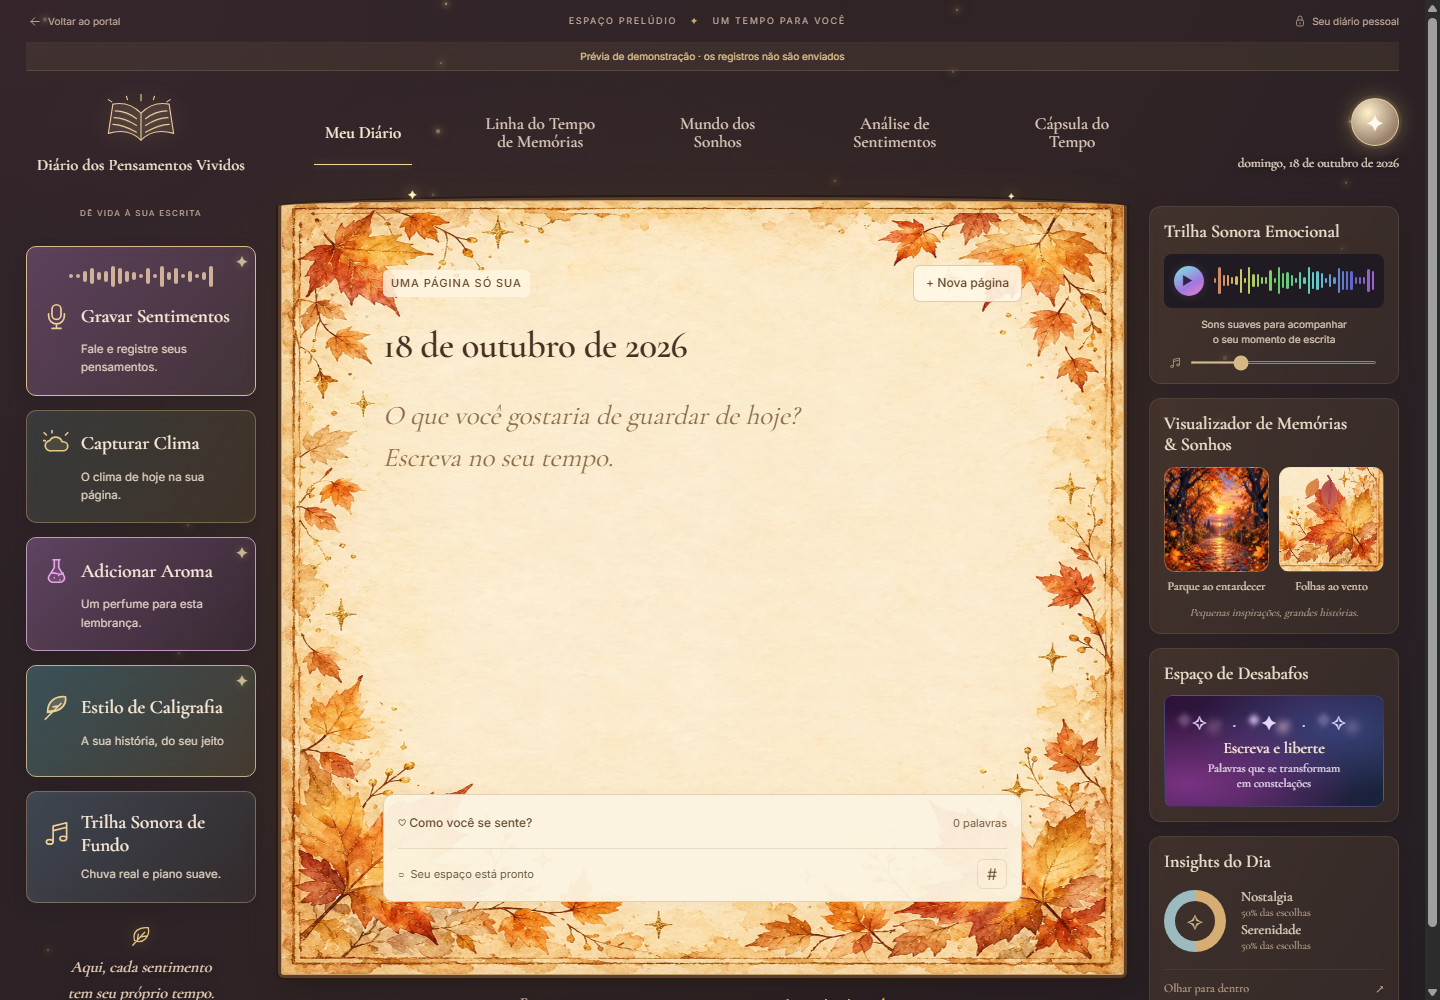
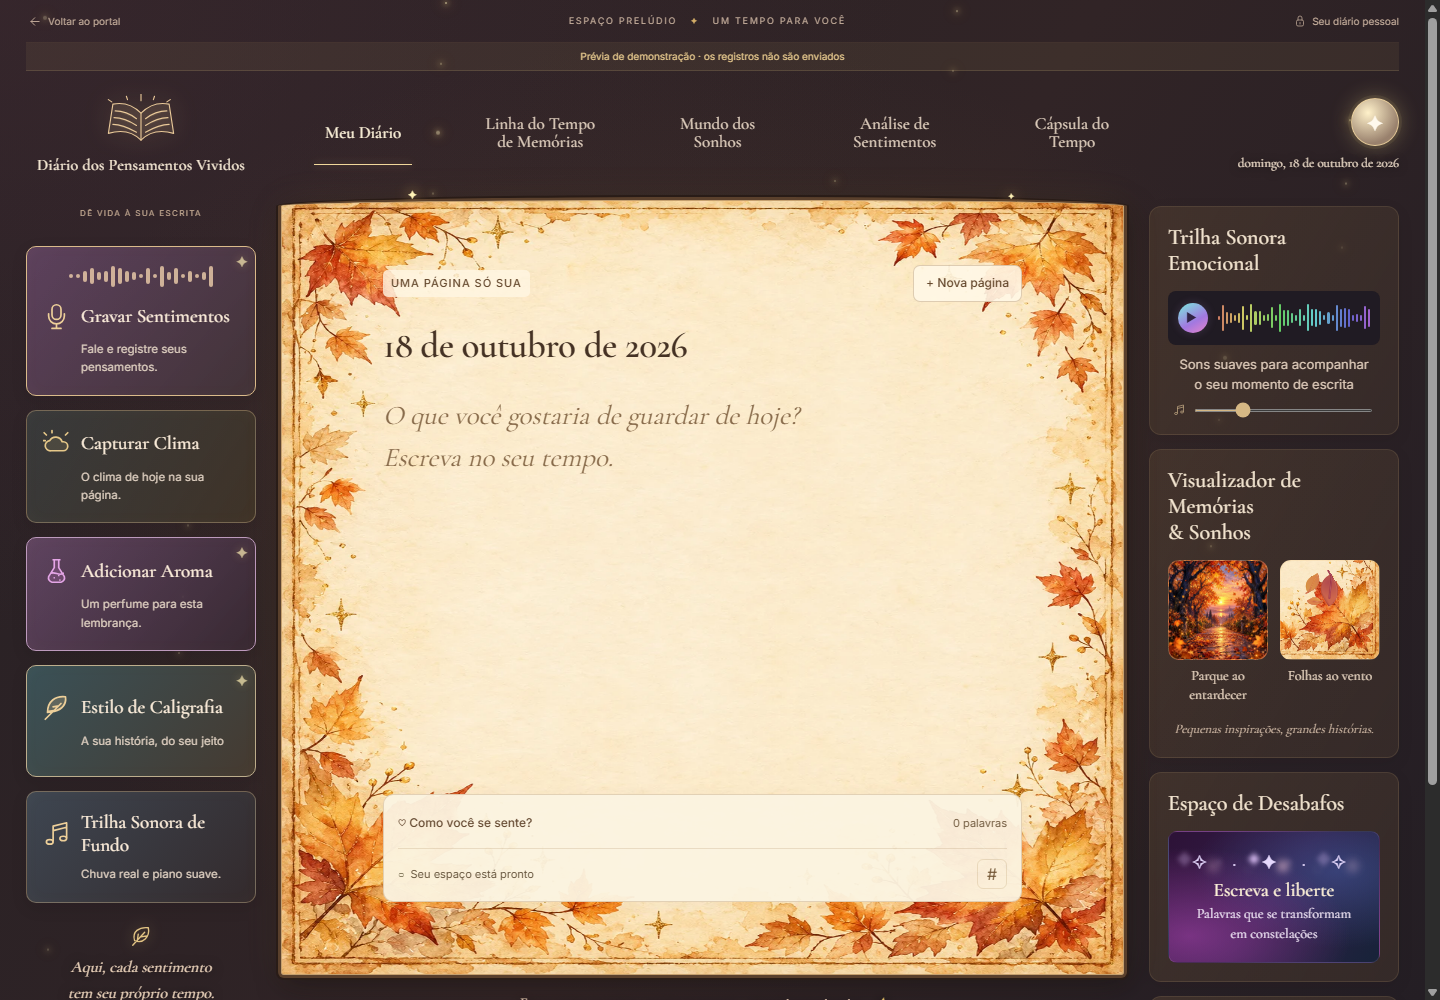
feat(diario): textos dos painéis laterais maiores e legíveis
Conclui o ajuste iniciado pelo Codex ("melhore o tamanho dos textos"):
títulos dos painéis 18 → 22 px, descrições 10 → 13 px, legendas das
memórias 12 → 14 px, frase em itálico, botão de desabafos e insights
maiores, com versões para telas médias e celular.

Correções sobre a ampliação:
- frase em itálico (.panel-whisper) ficava presa em 13 px no celular pela
  regra genérica dos parágrafos; agora usa o tamanho pretendido (14 px);
- cartões de memórias alinhados pelo topo (legenda de duas linhas
  deslocava a imagem do cartão vizinho);
- abaixo de 390 px os painéis passam a uma coluna: em 320–375 px as duas
  colunas quebravam "entardecer" e "Serenidade" no meio e escondiam a onda
  sonora. Sem rolagem horizontal de 320 a 1440 px.

Changed region(s): [[0.7812, 0.217, 1.0, 0.992]]

diff --git a/app/diary.css b/app/diary.css
@@ -360,3 +360,84 @@
   .diary-brand { gap: 7px; }
   .diary-brand > svg { margin-bottom: 0; }
 }
+
+/* Painéis laterais: leitura confortável em telas grandes e pequenas. */
+.diary-panels .side-panel {
+  min-width: 0;
+  padding: 18px;
+}
+.diary-panels .side-panel h2 {
+  margin-bottom: 14px;
+  font-size: 22px;
+  line-height: 1.18;
+  overflow-wrap: anywhere;
+}
+.diary-panels .side-panel p {
+  font-size: 13px;
+  line-height: 1.55;
+}
+.memory-tiles {
+  min-width: 0;
+  gap: 12px;
+  /* Legendas de alturas diferentes: sem isso o botão mais baixo centraliza a imagem. */
+  align-items: start;
+}
+.memory-tiles button {
+  min-width: 0;
+  font-size: 14px;
+  line-height: 1.35;
+  overflow-wrap: anywhere;
+}
+.diary-panels .side-panel .panel-whisper {
+  margin-top: 15px;
+  font-size: 13px;
+  line-height: 1.45;
+  color: #d4bda9;
+}
+.release-button {
+  padding: 19px 10px;
+}
+.release-button strong {
+  font-size: 19px;
+  line-height: 1.25;
+}
+.release-button > span:last-child {
+  font-size: 14px;
+  line-height: 1.4;
+}
+#insightLegend p {
+  font-size: 16px;
+  line-height: 1.3;
+  overflow-wrap: anywhere;
+}
+#insightLegend small {
+  margin-top: 3px;
+  font-size: 13px;
+  line-height: 1.5;
+}
+.insight-link {
+  font-size: 14px;
+}
+@media (max-width: 1200px) and (min-width: 981px) {
+  .diary-panels .side-panel { padding: 15px; }
+  .diary-panels .side-panel h2 { font-size: 19px; }
+  .diary-panels .side-panel p { font-size: 12px; }
+  .memory-tiles button { font-size: 13px; }
+  .diary-panels .side-panel .panel-whisper { font-size: 12px; }
+}
+@media (max-width: 640px) {
+  .diary-panels .side-panel { padding: 18px; }
+  .diary-panels .side-panel h2 { font-size: 22px; }
+  .diary-panels .side-panel p { font-size: 13px; }
+  .memory-tiles button { font-size: 15px; }
+  .diary-panels .side-panel .panel-whisper { font-size: 14px; }
+  .release-button strong { font-size: 20px; }
+  .release-button > span:last-child { font-size: 15px; }
+  #insightLegend p { font-size: 17px; }
+  #insightLegend small { font-size: 14px; }
+}
+/* Abaixo de 390 px as duas colunas ficam estreitas demais para essas fontes
+   ("entardecer" e "Serenidade" quebravam no meio da palavra): uma coluna só. */
+@media (max-width: 389px) {
+  .diary-panels { grid-template-columns: minmax(0, 1fr); }
+}

diff --git a/staging/app/diary.css b/staging/app/diary.css
@@ -360,3 +360,84 @@
   .diary-brand { gap: 7px; }
   .diary-brand > svg { margin-bottom: 0; }
 }
+
+/* Painéis laterais: leitura confortável em telas grandes e pequenas. */
+.diary-panels .side-panel {
+  min-width: 0;
+  padding: 18px;
+}
+.diary-panels .side-panel h2 {
+  margin-bottom: 14px;
+  font-size: 22px;
+  line-height: 1.18;
+  overflow-wrap: anywhere;
+}
+.diary-panels .side-panel p {
+  font-size: 13px;
+  line-height: 1.55;
+}
+.memory-tiles {
+  min-width: 0;
+  gap: 12px;
+  /* Legendas de alturas diferentes: sem isso o botão mais baixo centraliza a imagem. */
+  align-items: start;
+}
+.memory-tiles button {
+  min-width: 0;
+  font-size: 14px;
+  line-height: 1.35;
+  overflow-wrap: anywhere;
+}
+.diary-panels .side-panel .panel-whisper {
+  margin-top: 15px;
+  font-size: 13px;
+  line-height: 1.45;
+  color: #d4bda9;
+}
+.release-button {
+  padding: 19px 10px;
+}
+.release-button strong {
+  font-size: 19px;
+  line-height: 1.25;
+}
+.release-button > span:last-child {
+  font-size: 14px;
+  line-height: 1.4;
+}
+#insightLegend p {
+  font-size: 16px;
+  line-height: 1.3;
+  overflow-wrap: anywhere;
+}
+#insightLegend small {
+  margin-top: 3px;
+  font-size: 13px;
+  line-height: 1.5;
+}
+.insight-link {
+  font-size: 14px;
+}
+@media (max-width: 1200px) and (min-width: 981px) {
+  .diary-panels .side-panel { padding: 15px; }
+  .diary-panels .side-panel h2 { font-size: 19px; }
+  .diary-panels .side-panel p { font-size: 12px; }
+  .memory-tiles button { font-size: 13px; }
+  .diary-panels .side-panel .panel-whisper { font-size: 12px; }
+}
+@media (max-width: 640px) {
+  .diary-panels .side-panel { padding: 18px; }
+  .diary-panels .side-panel h2 { font-size: 22px; }
+  .diary-panels .side-panel p { font-size: 13px; }
+  .memory-tiles button { font-size: 15px; }
+  .diary-panels .side-panel .panel-whisper { font-size: 14px; }
+  .release-button strong { font-size: 20px; }
+  .release-button > span:last-child { font-size: 15px; }
+  #insightLegend p { font-size: 17px; }
+  #insightLegend small { font-size: 14px; }
+}
+/* Abaixo de 390 px as duas colunas ficam estreitas demais para essas fontes
+   ("entardecer" e "Serenidade" quebravam no meio da palavra): uma coluna só. */
+@media (max-width: 389px) {
+  .diary-panels { grid-template-columns: minmax(0, 1fr); }
+}

diff --git a/aluno-diario.html b/aluno-diario.html
@@ -13,7 +13,7 @@
   <title data-i18n="p-diary:page_title">Diário dos Pensamentos Vividos · Espaço Prelúdio</title>
   <link rel="icon" href="/logo-144.png" type="image/png">
   <link rel="stylesheet" href="./fonts/caveat400-600_cormorantgaramond400-600_inter400-600.css?h=4f8befaaca">
-  <link rel="stylesheet" href="./app/diary.css?h=ec9584a861">
+  <link rel="stylesheet" href="./app/diary.css?h=93d05b0653">
   <script src="/i18n/init.js?v=2-8" defer></script>
   <script type="module" src="./app/diary.js?h=e3f9738e15"></script>
 </head>

diff --git a/staging/aluno-diario.html b/staging/aluno-diario.html
@@ -13,7 +13,7 @@
   <title data-i18n="p-diary:page_title">Diário dos Pensamentos Vividos · Espaço Prelúdio</title>
   <link rel="icon" href="/logo-144.png" type="image/png">
   <link rel="stylesheet" href="./fonts/caveat400-600_cormorantgaramond400-600_inter400-600.css?h=4f8befaaca">
-  <link rel="stylesheet" href="./app/diary.css?h=ec9584a861">
+  <link rel="stylesheet" href="./app/diary.css?h=93d05b0653">
   <script src="/i18n/init.js?v=2-8" defer></script>
   <script type="module" src="./app/diary.js?h=e3f9738e15"></script>
 </head>

diff --git a/app/diario.html b/app/diario.html
@@ -13,7 +13,7 @@
   <title data-i18n="p-diary:page_title">Diário dos Pensamentos Vividos · Espaço Prelúdio</title>
   <link rel="icon" href="/logo-144.png" type="image/png">
   <link rel="stylesheet" href="../fonts/caveat400-600_cormorantgaramond400-600_inter400-600.css?h=4f8befaaca">
-  <link rel="stylesheet" href="./diary.css?h=ec9584a861">
+  <link rel="stylesheet" href="./diary.css?h=93d05b0653">
   <script src="/i18n/init.js?v=2-8" defer></script>
   <script type="module" src="./diary.js?h=e3f9738e15"></script>
 </head>

diff --git a/staging/app/diario.html b/staging/app/diario.html
@@ -13,7 +13,7 @@
   <title data-i18n="p-diary:page_title">Diário dos Pensamentos Vividos · Espaço Prelúdio</title>
   <link rel="icon" href="/logo-144.png" type="image/png">
   <link rel="stylesheet" href="../fonts/caveat400-600_cormorantgaramond400-600_inter400-600.css?h=4f8befaaca">
-  <link rel="stylesheet" href="./diary.css?h=ec9584a861">
+  <link rel="stylesheet" href="./diary.css?h=93d05b0653">
   <script src="/i18n/init.js?v=2-8" defer></script>
   <script type="module" src="./diary.js?h=e3f9738e15"></script>
 </head>
